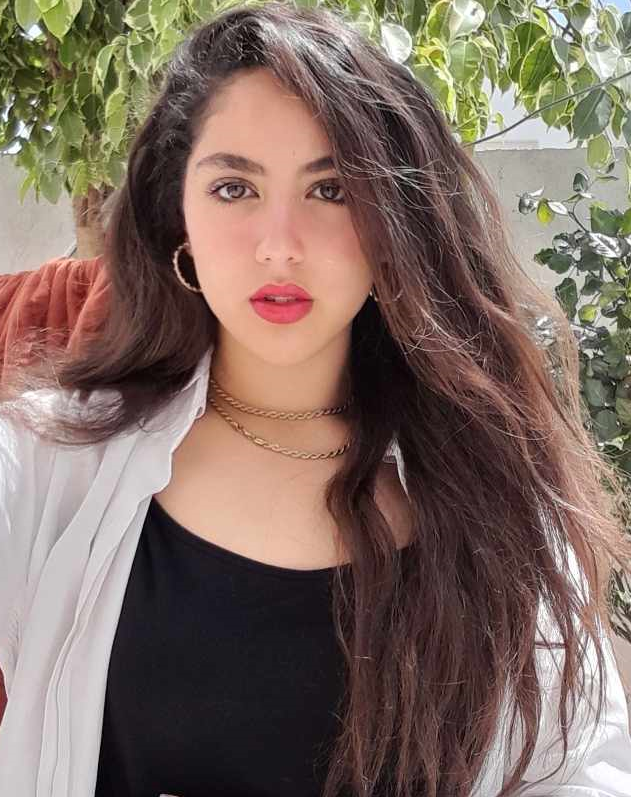
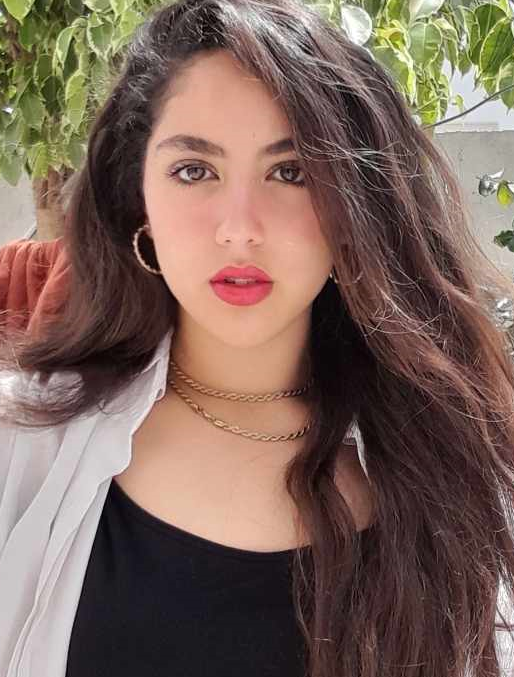
modification

diff --git a/index.html b/index.html
@@ -77,7 +77,7 @@
         <div class="container">
             <div class="row align-items-center">
                 <div class="col-lg-5 px-5 pl-lg-0 pb-5 pb-lg-0">
-                    <img class="img-fluid w-100 rounded-circle shadow-sm" src="img/449628485_1214198809760772_3560723844249819144_n.jpg" alt="">
+                    <img class="img-fluid w-100 rounded-circle shadow-sm" src="img/R.jpg" alt="">
                 </div>
                 <div class="col-lg-7 text-center text-lg-left">
                     <h3 class="text-white font-weight-normal mb-3">I'm</h3>
